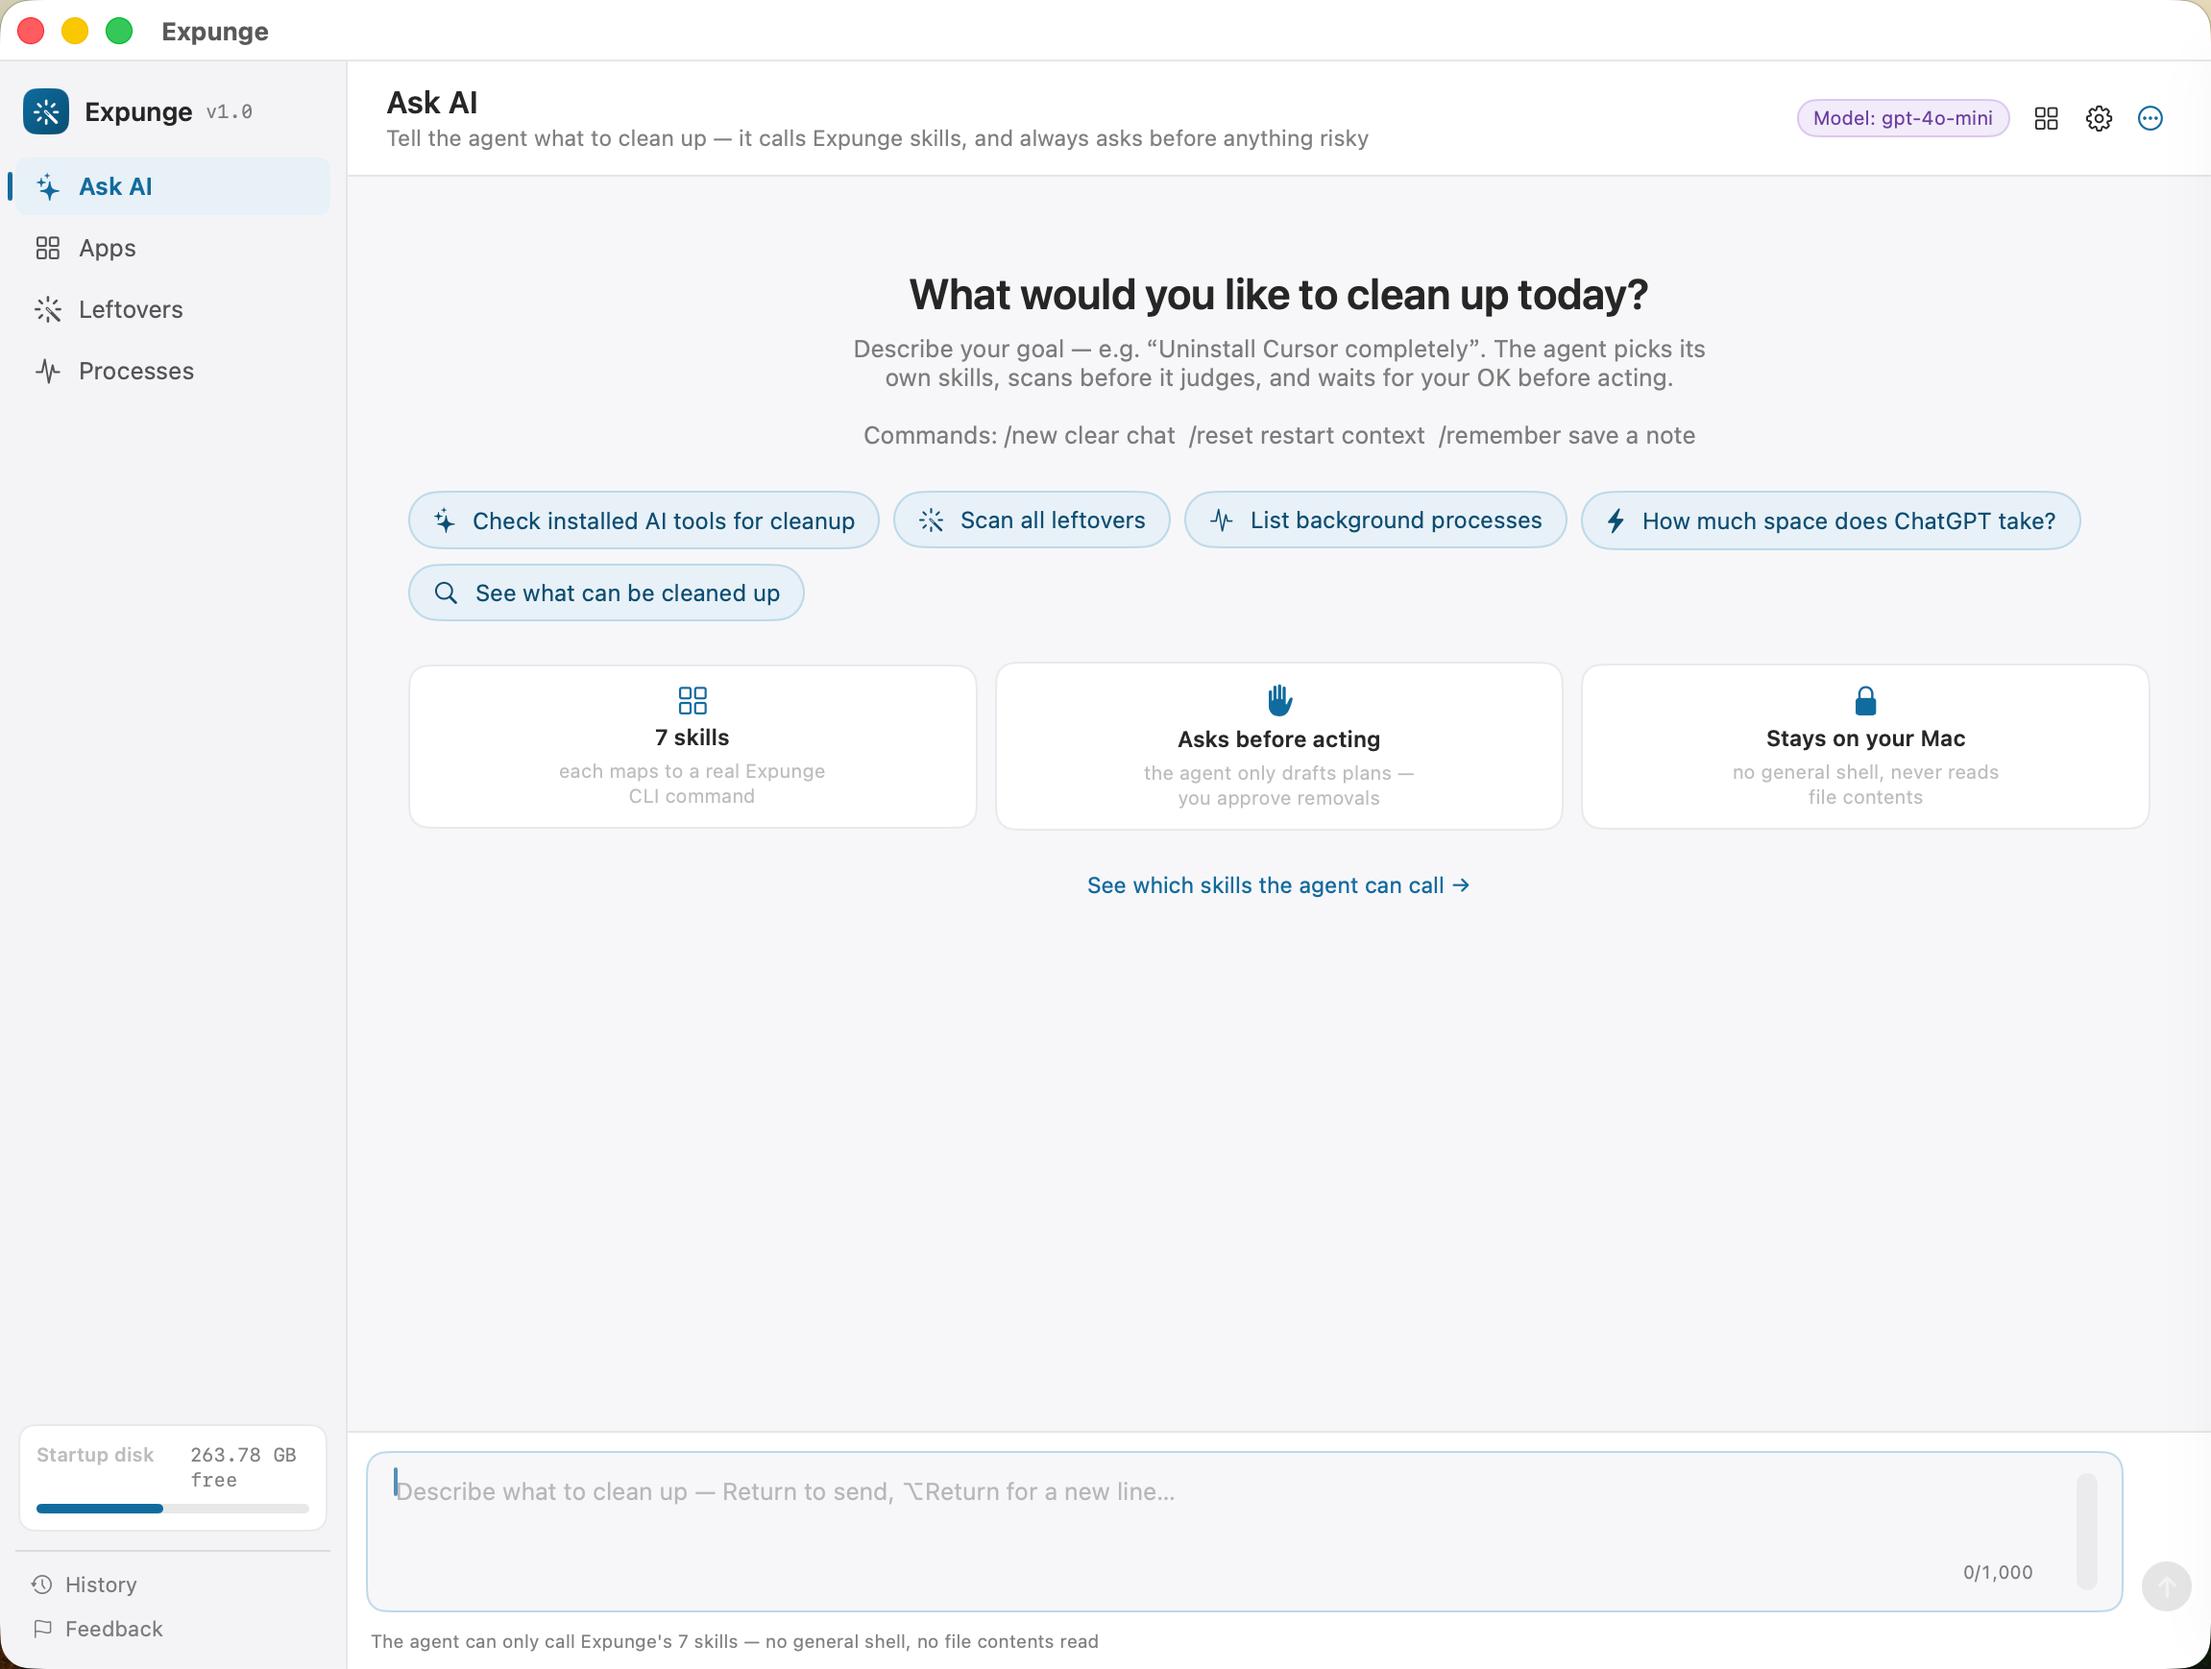
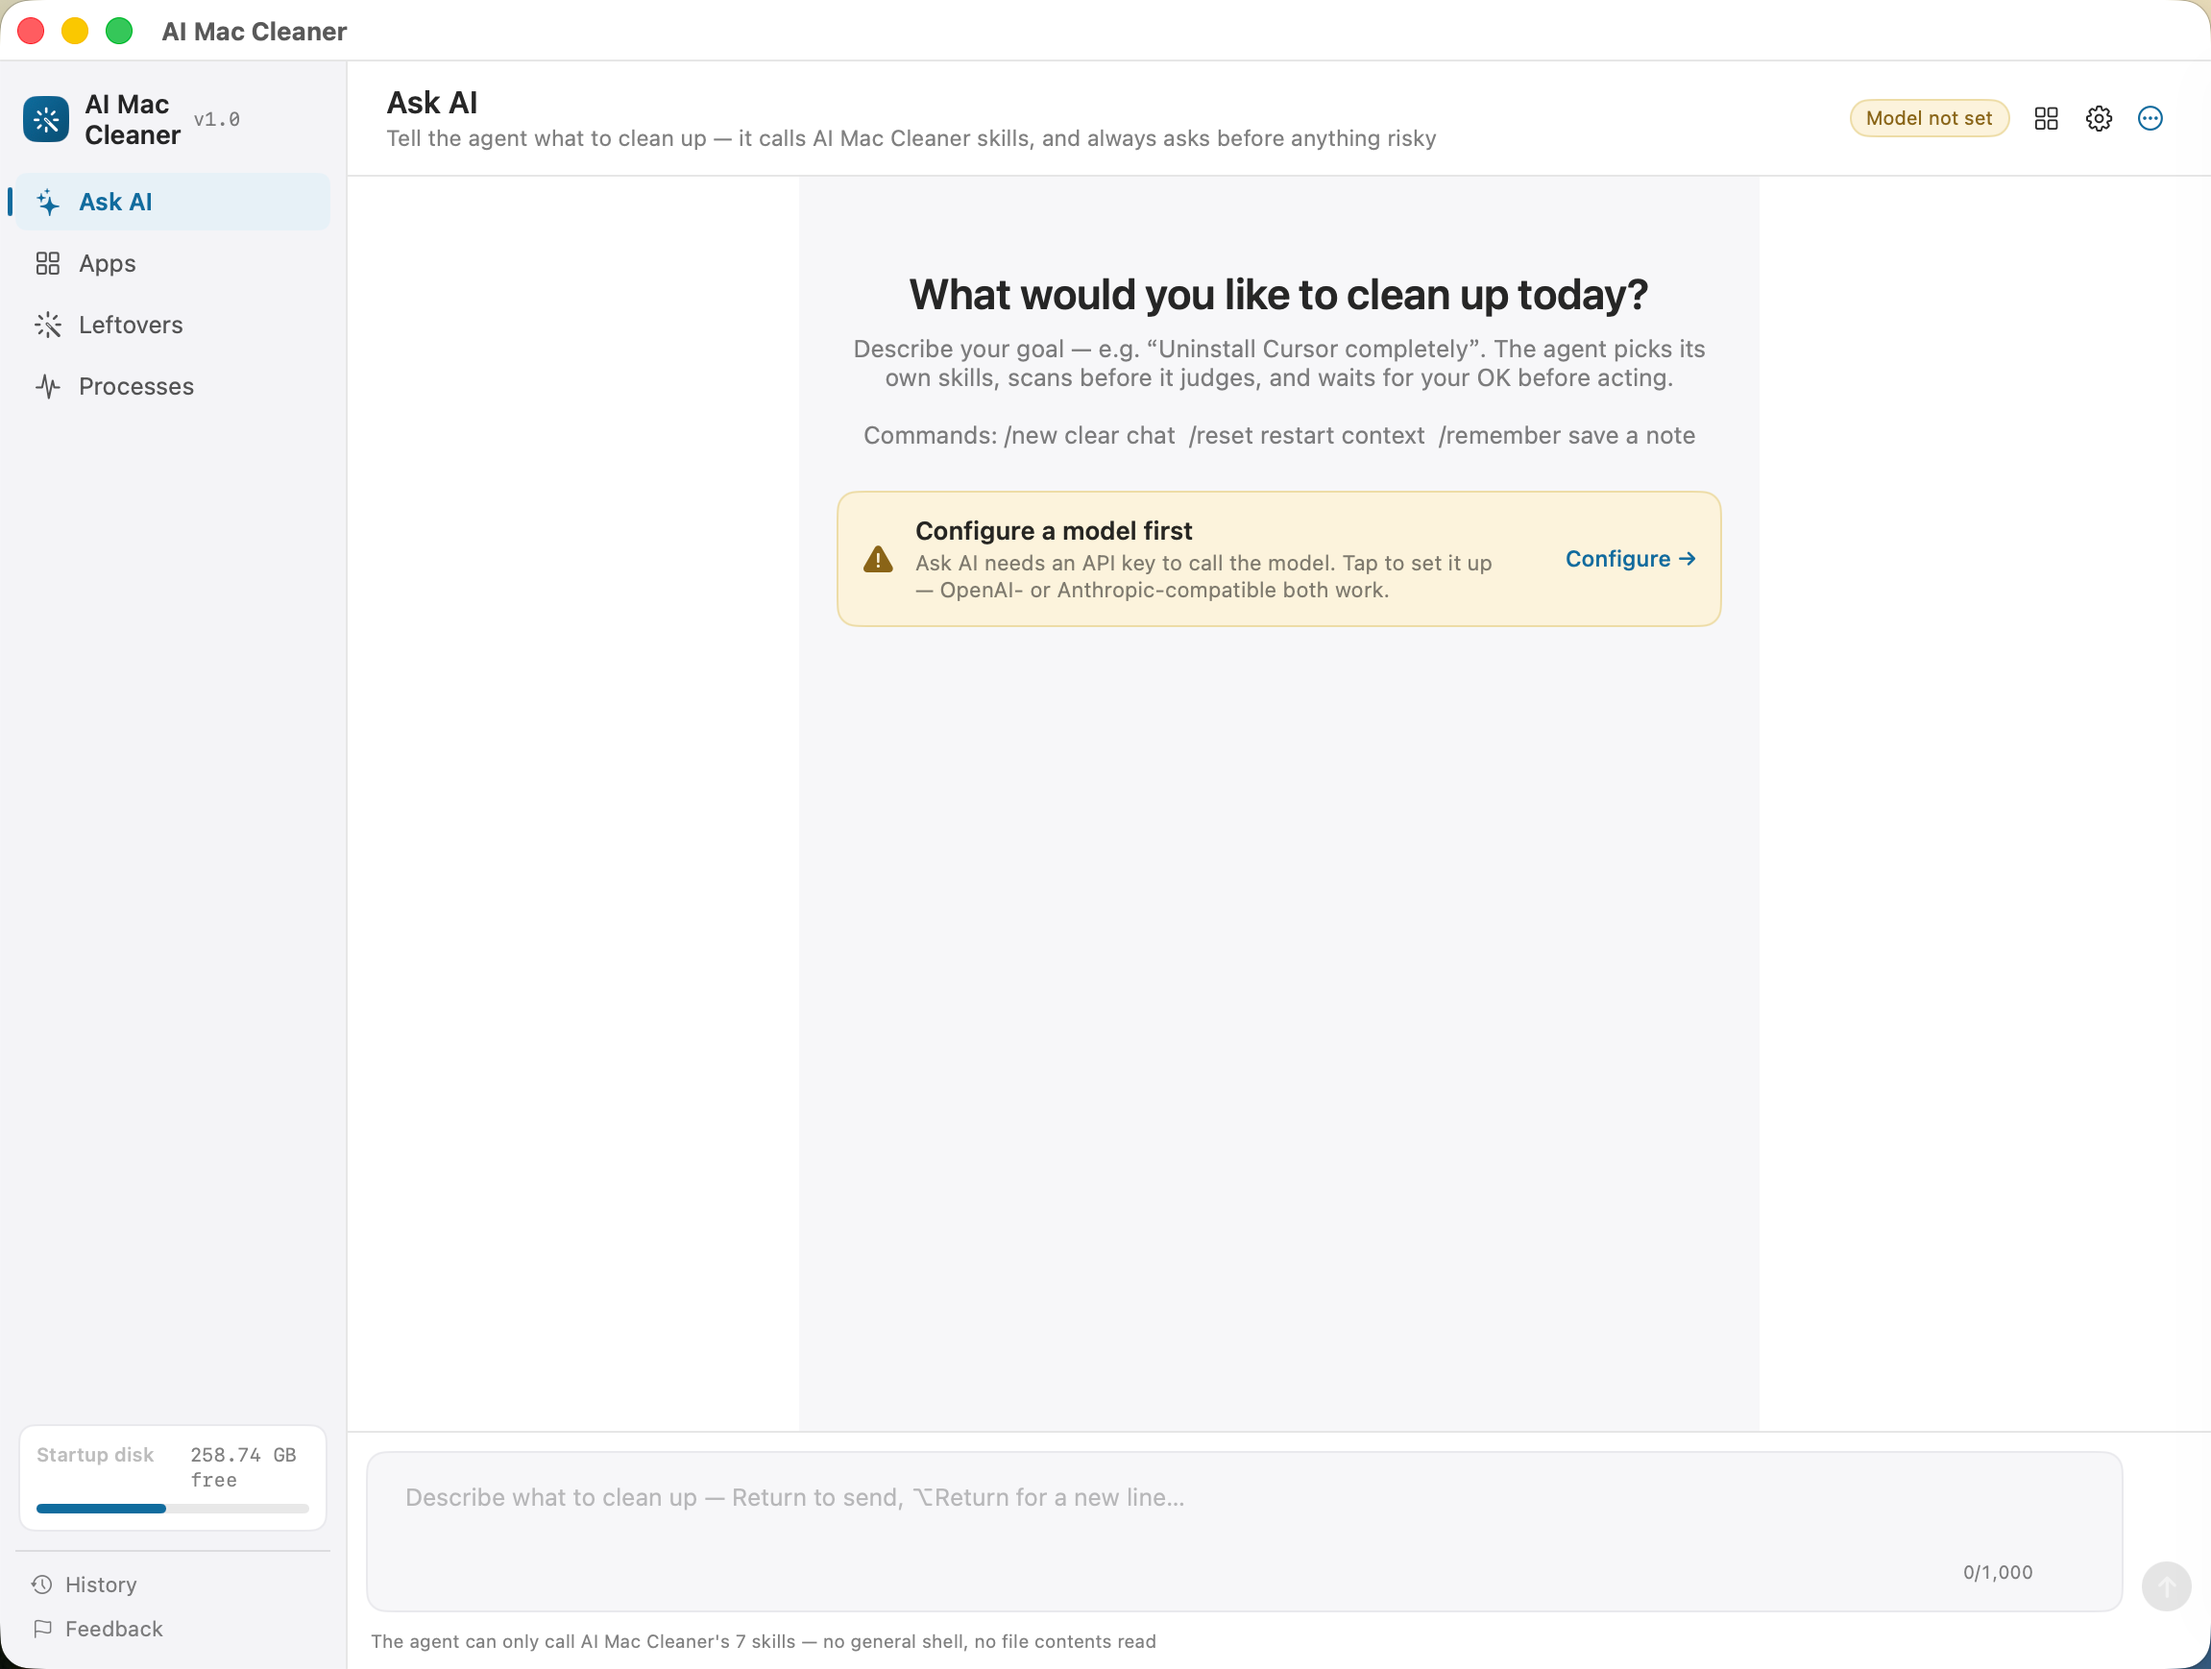
修复两处旧仓库链接残留 + 调整 AskAI placeholder 垂直内边距使其与光标基线对齐

diff --git a/Sources/AIMacCleaner/UI/AskAIView.swift b/Sources/AIMacCleaner/UI/AskAIView.swift
@@ -433,9 +433,11 @@ struct AskAIView: View {
                             .font(.system(size: 12.5))
                             .foregroundStyle(.tertiary)
                             .lineSpacing(2)
-                            // 与 NSTextView 的内边距对齐，避免光标和暗文不在同一高度。
+                            // 与 NSTextView 的内边距对齐：ComposerTextView 已把
+                            // textContainerInset 和 lineFragmentPadding 都置零，placeholder
+                            // 只保留水平内边距即可与输入文本第一行基线对齐；vertical padding
+                            // 会把它额外下推，导致光标看起来偏高。
                             .padding(.horizontal, 10)
-                            .padding(.vertical, 8)
                             .allowsHitTesting(false)
                     }
 

diff --git a/Sources/AIMacCleaner/UI/Sheets.swift b/Sources/AIMacCleaner/UI/Sheets.swift
@@ -190,7 +190,7 @@ struct FeedbackSheet: View {
     @State private var includeDiagnostics = true
     @State private var showPreview = false
 
-    private static let repoIssueURL = "https://github.com/hwd8080-ai/expunge-mac-uninstaller/issues/new"
+    private static let repoIssueURL = "https://github.com/hwd8080-ai/ai-mac-cleaner/issues/new"
     private static let feedbackMail = "expunge@duck.com"
 
     init(target: Artifact? = nil, editingEntry: FeedbackEntry? = nil) {

diff --git a/Sources/AIMacCleaner/UI/AboutSheet.swift b/Sources/AIMacCleaner/UI/AboutSheet.swift
@@ -6,7 +6,7 @@ struct AboutSheet: View {
     @Environment(\.dismiss) private var dismiss
     @Environment(\.openURL) private var openURL
 
-    private let repoURL = URL(string: "https://github.com/hwd8080-ai/expunge-mac-uninstaller")!
+    private let repoURL = URL(string: "https://github.com/hwd8080-ai/ai-mac-cleaner")!
 
     var body: some View {
         VStack(spacing: 0) {
